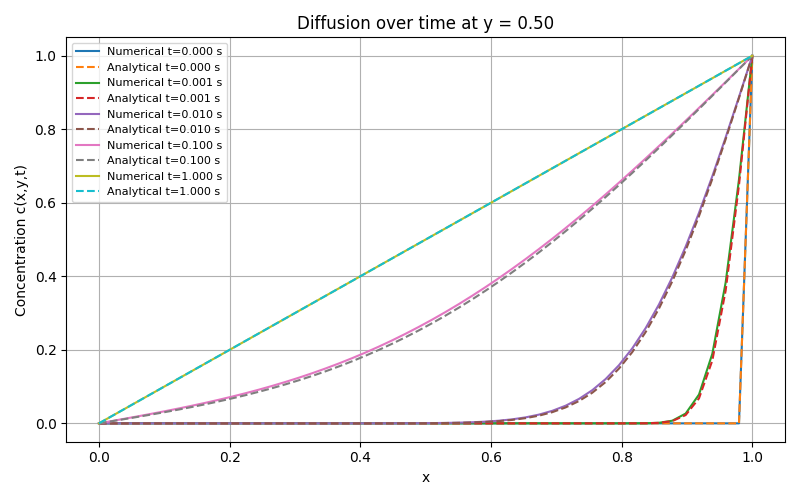
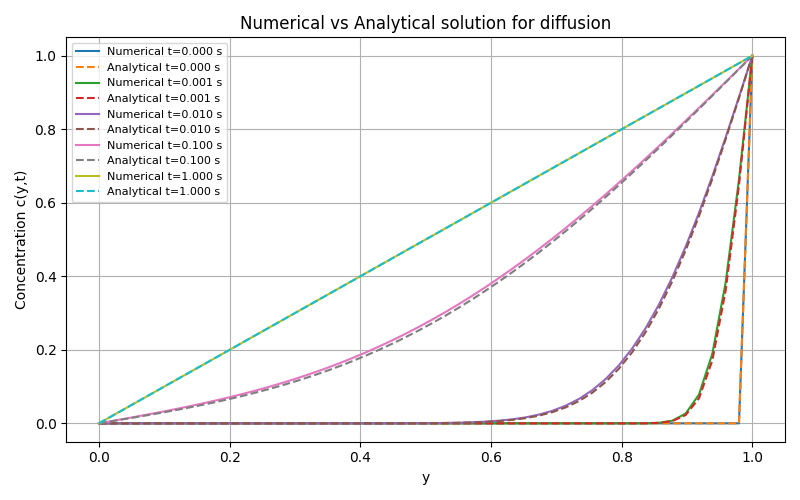
changed the x to y coord.

Changed region(s): [[0.2812, 0.03, 0.7812, 0.06], [0.0, 0.33, 0.0312, 0.63]]

diff --git a/assignment_1_2.py b/assignment_1_2.py
@@ -240,7 +240,7 @@ def plot_diffusion_with_analytical(concentration_over_time, analytical_func, dt,
     - slice_idx: index along y to take a 1D slice; if None, takes middle row
     """
     Nt = len(concentration_over_time)
-    x = np.linspace(0, x_max, N)
+    y = np.linspace(0, y_max, N)
 
     if slice_idx is None:
         slice_idx = N // 2  # middle row
@@ -254,15 +254,15 @@ def plot_diffusion_with_analytical(concentration_over_time, analytical_func, dt,
     for idx, frame in enumerate(frame_indices):
         # Numerical slice
         conc_slice = concentration_over_time[frame][:, slice_idx]
-        plt.plot(x, conc_slice, label=f'Numerical t={times[idx]:.3f} s')
+        plt.plot(y, conc_slice, label=f'Numerical t={times[idx]:.3f} s')
 
         # Analytical slice
-        analytical_slice = analytical_func(x, times[idx])
-        plt.plot(x, analytical_slice, '--', label=f'Analytical t={times[idx]:.3f} s')
+        analytical_slice = analytical_func(y, times[idx])
+        plt.plot(y, analytical_slice, '--', label=f'Analytical t={times[idx]:.3f} s')
 
-    plt.xlabel('x')
-    plt.ylabel('Concentration c(x,y,t)')
-    plt.title('Diffusion over time at y = {:.2f}'.format(slice_idx/N))
+    plt.xlabel('y')
+    plt.ylabel('Concentration c(y,t)')
+    plt.title('Numerical vs Analytical solution for diffusion')
     plt.legend(fontsize=8)
     plt.grid(True)
     plt.tight_layout()
